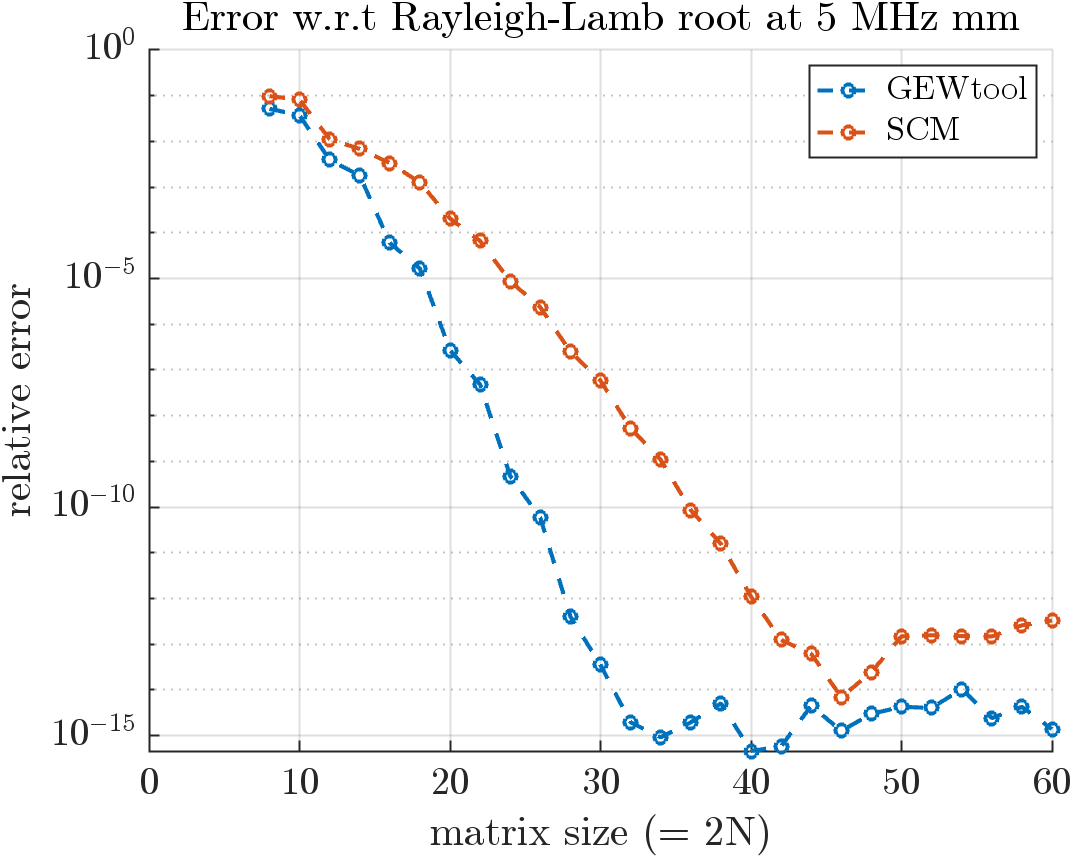
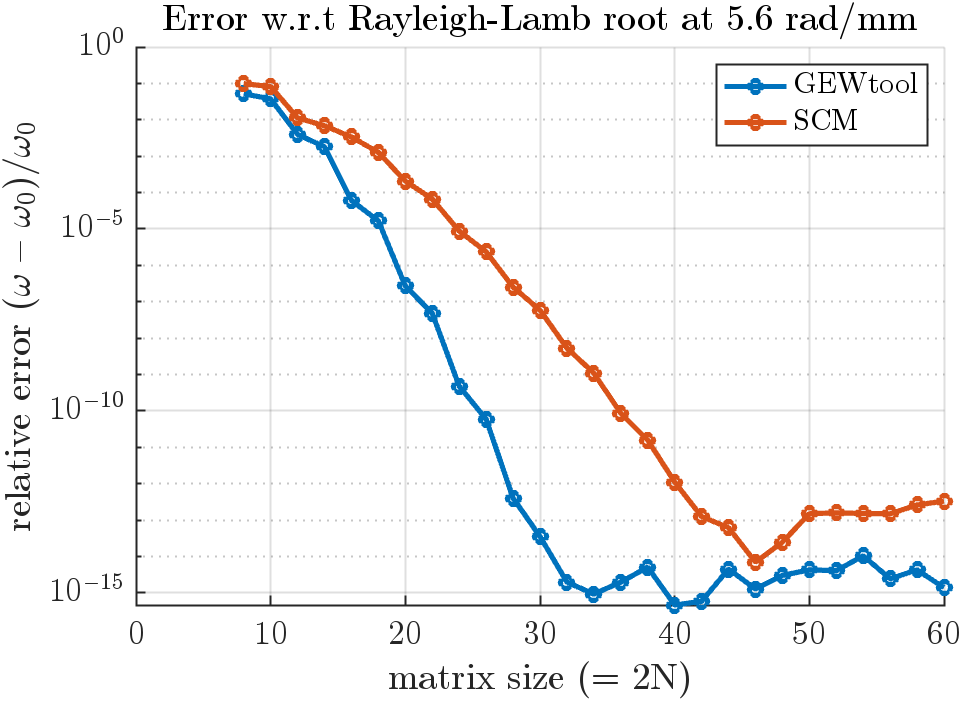
readme.md: updated discussion of convergence. bugfix in test_convergenceAndAssemblingTime.m

diff --git a/tests/test_convergenceAndAssemblingTime.m b/tests/test_convergenceAndAssemblingTime.m
@@ -43,23 +43,6 @@ for i=1:numel(N)
     ws(i)=w(indSel);
 end
 
-% plot if the variable "show" has been set to true
-if exist('show', 'var') && show
-    figure(1), hold on, 
-    bar(dofs, time); 
-    title('assembling time for matrices'); 
-    xlabel('matrix size (= 2N)'), ylabel('time in s')
-    
-    figure(2), hold on, plot(dofs,abs(errRel),'o--');
-    ax=gca; ax.YScale='log';
-    xlabel('matrix size (= 2N)'), ylabel('relative error')
-    title('Error w.r.t Rayleigh-Lamb root')
-    % legend({'SCM', 'SEM', 'GEWtool'})
-end
-
-% %%%%%%% UNIT TESTS %%%%%%%
-% run using "runtests"
-
 %% assembling time
 assert( mean(time) < 10e-4 )
 
@@ -70,6 +53,19 @@ indConv = find( diff(convi) ) + 1;  % indices where the drops occur
 assert( length(indConv) == 1 );     % there exists exactly one index where the drop occurs
 
 % %%%%%%% END OF TESTS %%%%%%%
+% plot if the variable "show" has been set to true
+if exist('show', 'var') && show
+    figure(1), hold on, 
+    bar(dofs, time); 
+    title('assembling time for matrices'); 
+    xlabel('matrix size (= 2N)'), ylabel('time in s')
+    
+    figure(2), hold on, plot(dofs,abs(errRel),'o--');
+    ax=gca; ax.YScale='log';
+    xlabel('matrix size (= 2N)'), ylabel('relative error $(\omega - \omega_0)/\omega_0$')
+    title('Error w.r.t Rayleigh-Lamb root')
+    % legend({'SCM', 'SEM', 'GEWtool'})
+end
 
 
 % % HELPER FUNCTIONS:

diff --git a/readme.md b/readme.md
@@ -82,7 +82,7 @@ You can also display help for all functions and classes, e.g., by typing `help P
 
 GEWtool implements the *Spectral Element Method (SEM)* (higher-order Finite Elements) to solve the *waveguide problem*, i.e., the boundary value problem that describes wave propagation in the structure. Such an approach is commonly qualified as 'semi-analytical'. Contrary to classical root-finding of the characteristic equation, this method does not miss solutions. Moreover, in contrast to Finite Elements, the Spectral Elements lead to small but dense matrices. 
 
-Solusions are computed with machine precision provided you have set the discretization order `N` sufficiently high. The higher you go in frequency-thickness, the higher `N`  should be. As a rule of thumb: half of the obtained modes will be accurate. The figure below shows the convergence with respect to the Rayleigh-Lamb root of an aluminum plate at 5 MHz mm and 5.6 rad/mm (S1 mode). A [Spectral Collocation](https://github.com/dakiefer/GEW_dispersion_script) implementation is shown in comparison. 15 digits accuracy is seen to be attained with N = 16 in this case.
+Solusions are computed with machine precision provided you have set the discretization order `N` sufficiently high. The higher you go in frequency-thickness, the higher `N`  should be. As a rule of thumb: half of the obtained modes will be accurate. The figure below shows the convergence with respect to the Rayleigh-Lamb root of the S1 mode at 5.6 rad/mm in an aluminum plate (solution close to 5 MHz mm). A [Spectral Collocation](https://github.com/dakiefer/GEW_dispersion_script) implementation is shown in comparison. 15 digits accuracy is attained with N = 16 in this case.
 
 <img src="resourcesAndDeps/img/convergence.png" alt="rendering failed" title="relative error w.r.t. Rayleigh-Lamb root" width="450pt">
 
